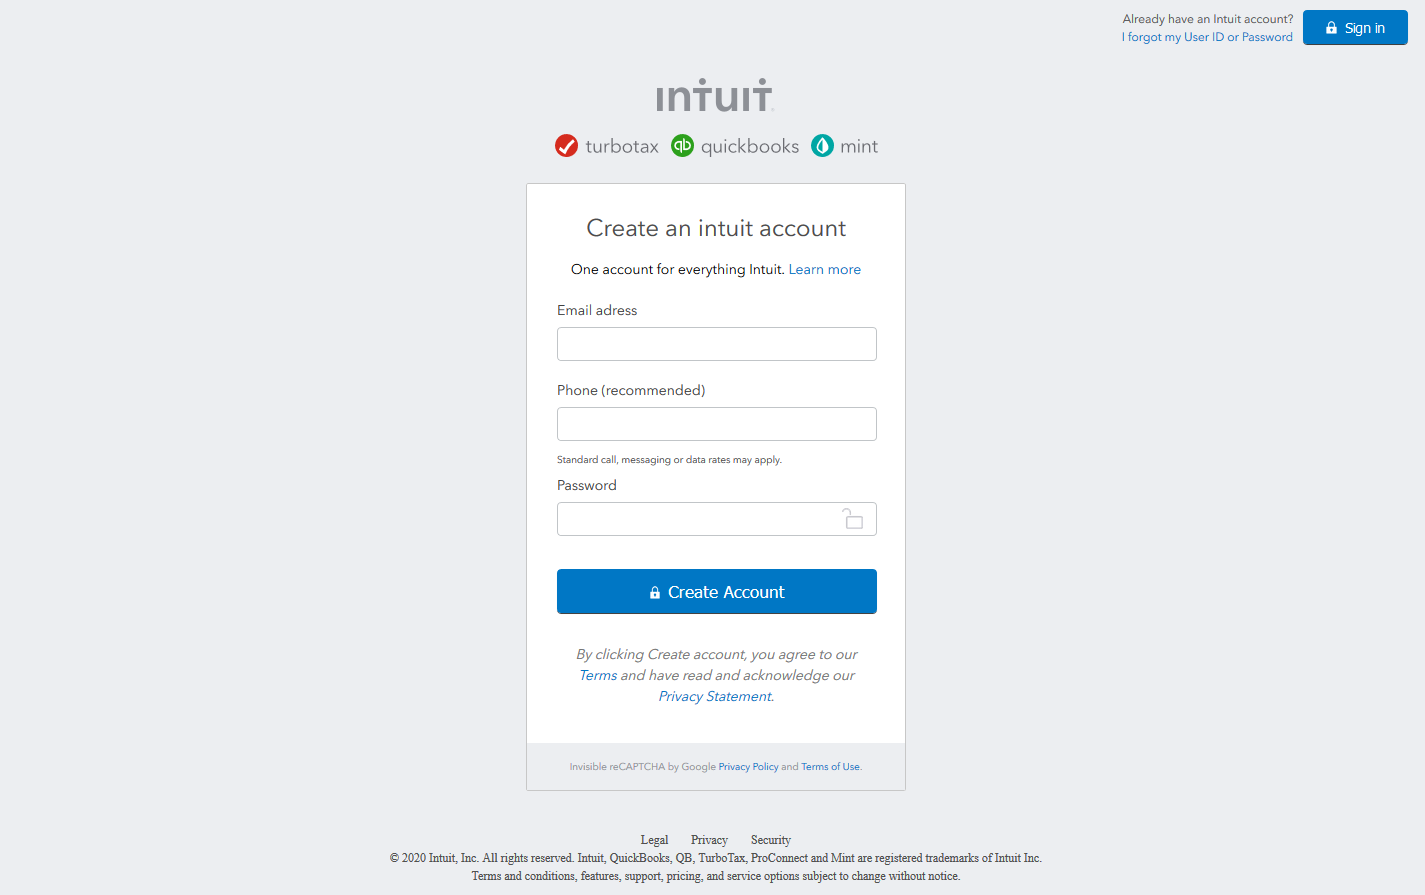
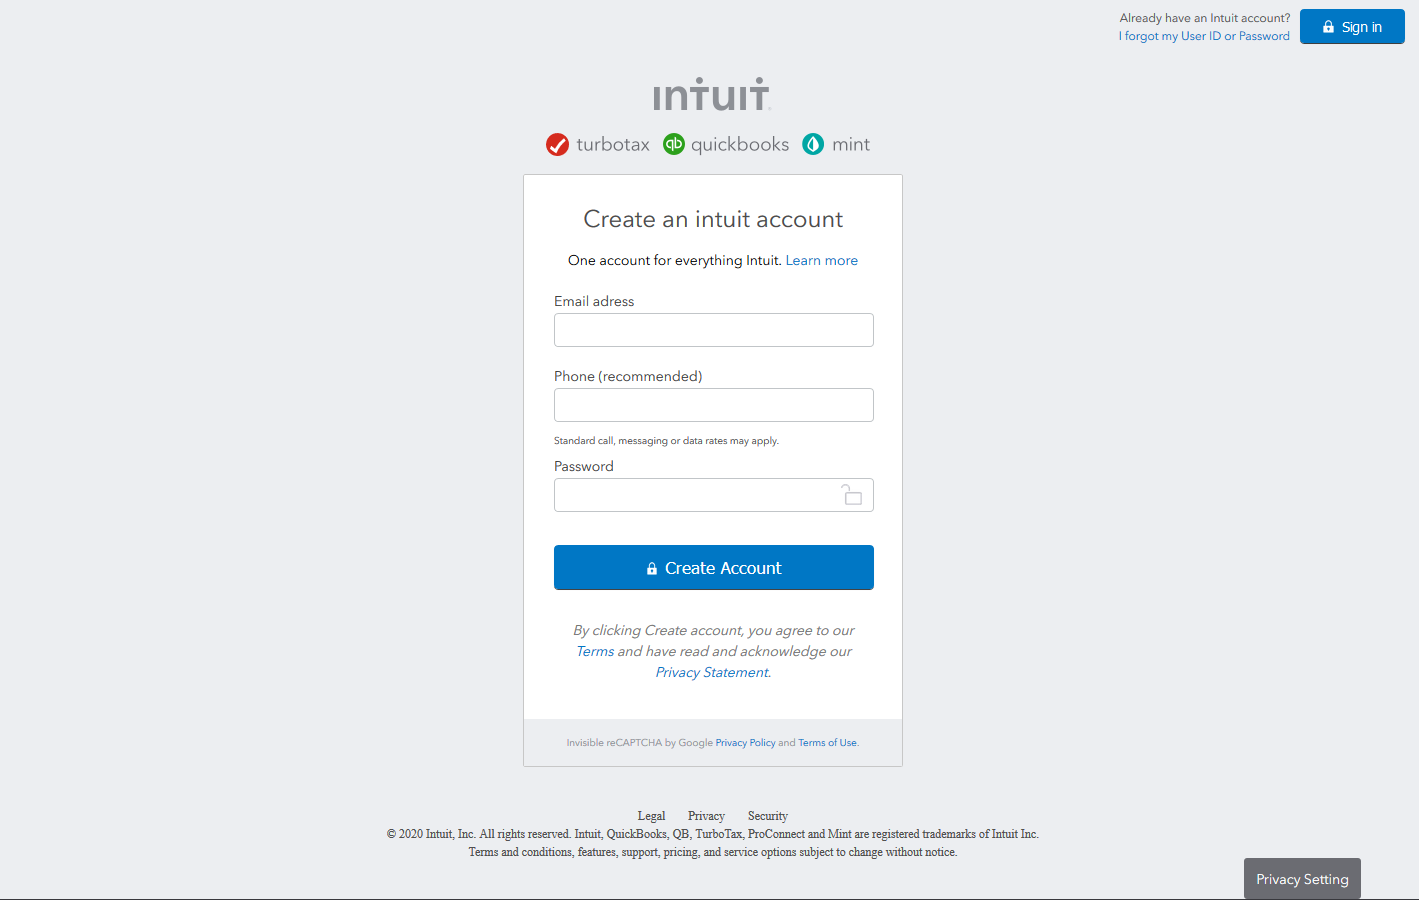
Finish animations. Finish project

diff --git a/index.html b/index.html
@@ -33,16 +33,14 @@
     </header>
     <div class="space"></div>
     <main>
-        <header class="sign-up-logo-header">
-            <ul>
-                <li id="turbotax-icon" class="favicons"></li>
-                <li id="turbotax-text" class="texticons fade-in"></li>
-                <li id="quickbooks-icon" class="favicons fade-in"></li>
-                <li id="quickbooks-text" class="texticons fade-in"></li>
-                <li id="mint-icon" class="favicons fade-in"></li>
-                <li id="mint-text" class="texticons fade-in"></li>
-            </ul>
-        </header>
+        <ul class="sign-up-logo-header">
+            <li id="turbotax-icon" class="favicons"></li>
+            <li id="turbotax-text" class="texticons fade-in"></li>
+            <li id="quickbooks-icon" class="favicons fade-in"></li>
+            <li id="quickbooks-text" class="texticons fade-in"></li>
+            <li id="mint-icon" class="favicons fade-in"></li>
+            <li id="mint-text" class="texticons fade-in"></li>
+        </ul>
         <div class="space"></div>
         <form id="form-container">
             <header id="header-container">
@@ -63,8 +61,10 @@
                     Phone (recommended)
                     <input maxlength="17" type="tel" name="telephone-number" id="phone"
                         class="input-field text-input-container">
-                    <legend>Standard call, messaging or data rates may apply.</legend>
                 </label>
+                <div class="legend">
+                    Standard call, messaging or data rates may apply.
+                </div>
                 <label id="label-password" for="password">
                     Password
                     <input id="password" type="password" name="password" class="input-field text-input-container"
@@ -76,10 +76,10 @@
                     <span id="create-acc-cta">Create Account</span>
                 </button>
             </fieldset>
-            <legend id="terms-privacy">
+            <div id="terms-privacy" class="legend">
                 By clicking Create account, you agree to our
                 <a href="#">Terms</a> and have read and acknowledge our <a href="#">Privacy Statement</a>.
-            </legend>
+            </div>
             <div id="form-footer">
                 Invisible reCAPTCHA by Google <a href="#">Privacy Policy</a> and <a href="#">Terms of Use</a>.
             </div>
@@ -105,12 +105,11 @@
             Terms and conditions, features, support, pricing, and service options subject to change without notice.
         </span>
     </footer>
-    <section class="consent-button">
+    <div class="consent-button">
         <div class="privacy-settings">
             Privacy Setting
         </div>
-
-    </section>
+    </div>
 </body>
 
 </html>

diff --git a/style.css b/style.css
@@ -86,6 +86,9 @@ body {
 
 .sign-up-logo-header {
   text-align: center;
+  margin: 0 auto;
+  display: block;
+  height: 40px;
 }
 
 .favicons {
@@ -123,11 +126,13 @@ body {
   width: 74px;
   background-repeat: no-repeat;
   padding-right: 9px;
+  animation-delay: 1.4s;
 }
 
 #quickbooks-icon {
   background-image: url(img/ecosystem_logos.png);
   background-position: -114px -57px;
+  animation-delay: 1.5s;
 }
 
 #quickbooks-text {
@@ -136,11 +141,13 @@ body {
   width: 98px;
   background-repeat: no-repeat;
   padding-right: 9px;
+  animation-delay: 1.6s;
 }
 
 #mint-icon {
   background-image: url(img/ecosystem_logos.png);
   background-position: -254px -57px;
+  animation-delay: 1.7s;
 }
 
 #mint-text {
@@ -149,6 +156,7 @@ body {
   width: 40px;
   background-repeat: no-repeat;
   padding-right: 9px;
+  animation-delay: 1.8s;
 }
 
 .fade-in {
@@ -157,7 +165,7 @@ body {
   opacity: 0;
   animation-duration: 2.5s;
   animation-delay: 1.2s;
-  animation-timing-function: cubic-bezier(.7,0,0,1), ease-in;
+  animation-timing-function: cubic-bezier(0.7, 0, 0, 1), ease-in;
   animation-fill-mode: forwards;
 }
 
@@ -170,14 +178,13 @@ body {
 }
 
 #form-container {
-  margin: 20px auto;
+  margin: 0 auto 20px;
   background-color: white;
   border: 1px solid #c7c7c7;
   border-radius: 2px;
   width: 380px;
   padding: 30px;
   box-sizing: border-box;
-  overflow: visible;
 }
 
 #subheader-prompt {
@@ -228,7 +235,7 @@ label {
   display: block;
 }
 
-legend {
+.legend {
   padding: 5px 0;
   font-size: 10px;
   color: #444;
@@ -354,12 +361,11 @@ footer {
   position: fixed;
   right: 5%;
   bottom: 0;
-  background-color: #6B6C72;
+  background-color: #6b6c72;
   border-radius: 3px;
   z-index: 100;
   cursor: pointer;
   display: block;
-  /* outline: none; */
   box-sizing: border-box;
 }
 
@@ -369,30 +375,50 @@ footer {
   font-size: 14px;
 }
 
-@media (max-width: 767px){
+@media (max-width: 767px) {
   .navigation-wrapper {
     display: none;
   }
 }
 
 @keyframes logo-fade-in {
-  0% {opacity: 0;}
-  100% {opacity: 1;}
+  0% {
+    opacity: 0;
+    left: 142px;
+  }
+
+  100% {
+    opacity: 1;
+    left: 0;
+  }
 }
 
 @keyframes red-circle {
   15% {
-     width: 46px;
-     height: 46px; 
-     left: 142px;
-   } 
+    width: 46px;
+    height: 46px;
+    left: 142px;
+  }
+
   70% {
     width: 23px;
-    height: 23px; 
+    height: 23px;
     left: 142px;
-  } 
-  100% { 
+  }
+
+  100% {
     width: 23px;
     height: 23px;
-    left: 0; }
+    left: 0;
+  }
+}
+
+@keyframes right-to-left {
+  0% {
+    left: 100px;
+  }
+
+  100% {
+    left: 0;
+  }
 }
